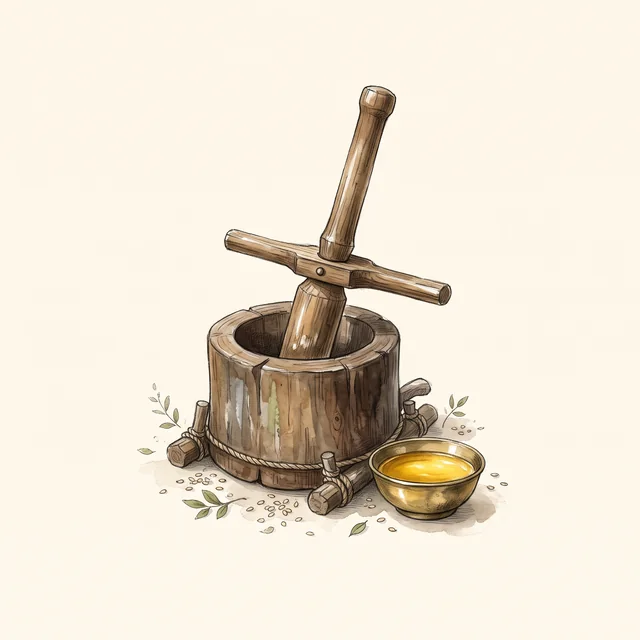
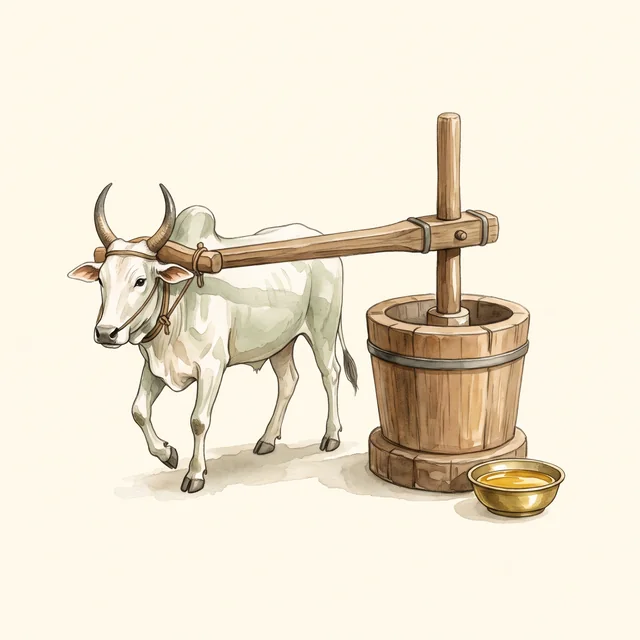
Fix shop-by-category navigation and refresh chekku artwork

Changed region(s): [[0.0938, 0.125, 0.9062, 0.8438]]

diff --git a/src/components/Storefront.tsx b/src/components/Storefront.tsx
@@ -6,7 +6,6 @@ import { useEffect, useState, useSyncExternalStore } from "react";
 import Link from "next/link";
 import { ArrowDown, ArrowRight, ArrowUpRight, Check, ChevronRight, Heart, Menu, Search, ShoppingBag, X } from "lucide-react";
 import { products, productCategories, type Category, type Product } from "@/content/products";
-import { categoryImages } from "@/content/category-images";
 import { Catalogue } from "./Catalogue";
 import { Editorial, NammalvarStory } from "./Editorial";
 import { StorefrontDialogs, type DialogState } from "./StorefrontDialogs";
@@ -29,6 +28,7 @@ export default function Storefront({ initialCategory = "all" }: { initialCategor
   const [dialog, setDialog] = useState<DialogState>(null);
   const [saved, setSaved] = useState<string[]>([]);
   const [category, setCategory] = useState<Category>(initialCategory);
+  const [navigationId, setNavigationId] = useState(0);
   const isWoodOilsPage = initialCategory === "wood-oils";
   const [menuOpen, setMenuOpen] = useState(false);
   const [announcement, setAnnouncement] = useState("");
@@ -62,7 +62,13 @@ export default function Storefront({ initialCategory = "all" }: { initialCategor
 
   const explore = (product: Product) => setDialog({ type: "product", product });
   const guide = () => { setMenuOpen(false); setDialog({ type: "guide" }); };
-  const goToCollection = (next: Category = "all") => { setCategory(next); setMenuOpen(false); document.getElementById("collection")?.scrollIntoView({ behavior: window.matchMedia("(prefers-reduced-motion: reduce)").matches ? "auto" : "smooth" }); };
+  const goToCollection = (next: Category = "all") => {
+    setCategory(next);
+    setMenuOpen(false);
+    setDialog(null);
+    // Increment even when reselecting the current category.
+    setNavigationId((id) => id + 1);
+  };
   // Move the actual section so reading and keyboard order match its placement.
   const nammalvarStory = <NammalvarStory onGuide={guide} />;
 
@@ -71,7 +77,7 @@ export default function Storefront({ initialCategory = "all" }: { initialCategor
     <header className="site-header">
       <div className="header-inner section-wrap">
         <a href="/" className="brand" aria-label={`${siteName} home`}><BrandWordmark /></a>
-        <nav className="desktop-nav" aria-label="Main navigation"><a href="#collection" className="nav-active" onClick={() => setCategory("all")}>Shop products <span className="nav-dot" /></a><a href="#our-way">The Asal way</a><button onClick={guide}>Our categories <ArrowUpRight size={13} /></button><a href="#questions">Good to know</a></nav>
+        <nav className="desktop-nav" aria-label="Main navigation"><a href="#collection" className="nav-active" onClick={(event) => { event.preventDefault(); goToCollection(); }}>Shop products <span className="nav-dot" /></a><a href="#our-way">The Asal way</a><button onClick={guide}>Our categories <ArrowUpRight size={13} /></button><a href="#questions">Good to know</a></nav>
         <div className="header-actions"><button className="icon-button" aria-label="Search products" onClick={() => setDialog({ type: "search" })}><Search size={21} strokeWidth={1.5} /></button><button className="icon-button header-favourites" aria-label={`Saved favourites, ${saved.length} items`} onClick={() => goToCollection("saved")}><Heart size={21} strokeWidth={1.5} />{saved.length > 0 && <span className="header-count">{saved.length}</span>}</button><span className="header-separator" /><Link href="/cart" className="bag-button" aria-label={`Your bag, ${summary.itemCount} ${summary.itemCount === 1 ? "item" : "items"}`}><span className="bag-icon"><ShoppingBag size={21} strokeWidth={1.5} />{summary.itemCount > 0 && <span className="bag-count">{summary.itemCount}</span>}</span><span>Your bag</span></Link><button className="icon-button mobile-menu-toggle" aria-label={menuOpen ? "Close menu" : "Open menu"} aria-expanded={menuOpen} aria-controls="mobile-menu" onClick={() => setMenuOpen(!menuOpen)}>{menuOpen ? <X size={22} /> : <Menu size={22} />}</button></div>
       </div>
       {menuOpen && <nav id="mobile-menu" className="mobile-nav" aria-label="Mobile navigation"><button onClick={() => goToCollection()}>Shop products <ArrowRight size={18} /></button><a href="#our-way" onClick={() => setMenuOpen(false)}>The Asal way</a><button onClick={guide}>Our categories <ArrowUpRight size={18} /></button><a href="#questions" onClick={() => setMenuOpen(false)}>Good to know</a><button onClick={() => goToCollection("saved")}>Saved favourites ({saved.length}) <Heart size={18} /></button></nav>}
@@ -85,31 +91,19 @@ export default function Storefront({ initialCategory = "all" }: { initialCategor
           <div className="hero-copy">
             <p className="hero-tamil" lang="ta">அசல் இயற்கை அங்காடி</p>
             <h1 id="hero-title">{isWoodOilsPage ? <>Wood-pressed<br /><em>oils</em></> : <>Asal Iyarkai<br /><em>Angadi</em></>}</h1>
-            <a href="#collection" className="button button-green" onClick={() => setCategory(initialCategory)}>Shop products <ArrowDown size={17} /></a>
+            <a href="#collection" className="button button-green" onClick={(event) => { event.preventDefault(); goToCollection(initialCategory); }}>Shop products <ArrowDown size={17} /></a>
           </div>
         </section>
       </div>
       {!mobileLayout && nammalvarStory}
-      <section className="category-shelf section-wrap" aria-labelledby="categories-title">
-        <div className="category-shelf-heading"><h2 id="categories-title">Shop by category</h2></div>
-        <nav className="category-shortcuts" aria-label="Shop by category">
-          {productCategories.map(({ id, label, tamilLabel }) => (
-            <button key={id} className="category-shortcut" onClick={() => goToCollection(id)} aria-pressed={category === id} aria-controls="collection">
-              <span className="category-shortcut-photo"><img src={categoryImages[id]} alt="" width="800" height="800" loading="lazy" decoding="async" /></span>
-              <span className="category-shortcut-caption"><strong>{label}</strong><span lang="ta">{tamilLabel}</span></span>
-            </button>
-          ))}
-        </nav>
-        <p className="category-scroll-hint">Scroll to browse <ArrowRight size={13} aria-hidden="true" /></p>
-      </section>
       <KolamDivider className="collection-divider" />
-      <Catalogue saved={saved} onSave={toggleSaved} onExplore={explore} onGuide={guide} category={category} onCategory={setCategory} />
+      <Catalogue saved={saved} onSave={toggleSaved} onExplore={explore} category={category} onCategory={goToCollection} navigationId={navigationId} />
       <Editorial />
       {mobileLayout && nammalvarStory}
     </main>
     <footer className="site-footer"><div className="footer-inner section-wrap"><div className="footer-brand"><a href="/" className="brand footer-brand-mark" aria-label={`${siteName} home`}><BrandWordmark /></a><p>{siteName}</p></div><div className="footer-links"><h3>Categories</h3>{productCategories.map(({ id, label }) => id === "wood-oils" ? <a key={id} href={woodOilsPath}>{label}</a> : <button key={id} onClick={() => goToCollection(id)}>{label}</button>)}</div><div className="footer-links"><h3>Information</h3><a href="#our-way">The Asal way</a><a href="#questions">Good to know</a><button onClick={() => setDialog({ type: "about" })}>About this store</button><button onClick={() => setDialog({ type: "ordering" })}>Ordering & delivery</button><a href="/credits">Image credits</a></div><div className="footer-signoff"><Kolam /></div></div><div className="footer-bottom section-wrap"><span>© 2026 {siteName}</span><span className="preview-tag"><span />Store preview</span><span className="footer-credit">Powered by <strong>Adplix Media</strong><img src="/adplix.svg" alt="" width="18" height="18" /></span></div></footer>
     <div className="sr-only" aria-live="polite">{announcement}</div>
     {announcement && <button className="save-toast" onClick={() => setAnnouncement("")} aria-label={`${announcement} Dismiss notification`}><Check size={16} /><span>{announcement}</span><X size={14} /></button>}
-    {dialog && <StorefrontDialogs key={dialog.type === "product" ? dialog.product.id : dialog.type} dialog={dialog} onClose={() => setDialog(null)} onExplore={explore} saved={saved} onSave={toggleSaved} />}
+    {dialog && <StorefrontDialogs key={dialog.type === "product" ? dialog.product.id : dialog.type} dialog={dialog} onClose={() => setDialog(null)} onExplore={explore} saved={saved} onSave={toggleSaved} category={category} onCategory={goToCollection} />}
   </>;
 }

diff --git a/src/components/Catalogue.tsx b/src/components/Catalogue.tsx
@@ -1,30 +1,31 @@
 "use client";
 
-import { useRef, useState } from "react";
-import { ArrowRight, ArrowUpRight, ChevronDown, Grid2X2, Heart, LayoutList, Search, SlidersHorizontal, Sprout, X } from "lucide-react";
-import { products, productCategories, categoryPackSizes, catalogueMaxPrice, catalogueMinPrice, selectProducts, groupProducts, formatPrice, type Category, type Product, type Sort } from "@/content/products";
+import { useEffect, useRef, useState } from "react";
+import { ArrowRight, ChevronDown, Grid2X2, Heart, LayoutList, Search, SlidersHorizontal, Sprout, X } from "lucide-react";
+import { products, categoryPackSizes, catalogueMaxPrice, catalogueMinPrice, selectProducts, groupProducts, formatPrice, type Category, type Product, type Sort } from "@/content/products";
 import { ProductCard } from "./ProductCard";
 import { HeritageIllustration } from "./HeritageIllustration";
+import { CategorySelector } from "./CategorySelector";
 
 const categories: { id: Category; label: string }[] = [
   { id: "all", label: "All products" },
-  ...productCategories,
   { id: "saved", label: "Saved favourites" },
 ];
 
-export function Catalogue({ saved, onSave, onExplore, onGuide, category, onCategory }: {
+export function Catalogue({ saved, onSave, onExplore, category, onCategory, navigationId }: {
   saved: string[];
   onSave: (id: string) => void;
   onExplore: (product: Product) => void;
-  onGuide: () => void;
   category: Category;
   onCategory: (category: Category) => void;
+  navigationId: number;
 }) {
   const [sort, setSort] = useState<Sort>("featured");
   const [filtersOpen, setFiltersOpen] = useState(false);
   const [maxPrice, setMaxPrice] = useState(catalogueMaxPrice);
   const [query, setQuery] = useState("");
   const [view, setView] = useState<"grid" | "list">("grid");
+  const [readyNavigation, setReadyNavigation] = useState(0);
   const filterToggleRef = useRef<HTMLButtonElement>(null);
   const selected = selectProducts(products, { category, sort, saved, maxPrice, query });
   const groups = groupProducts(selected);
@@ -32,13 +33,34 @@ export function Catalogue({ saved, onSave, onExplore, onGuide, category, onCateg
   // Closing unmounts the panel, so return focus to the control that owns aria-expanded.
   const closeFilters = () => { setFiltersOpen(false); filterToggleRef.current?.focus(); };
 
+  // An explicit category choice must not inherit a search/price filter that hides it.
+  // A separate commit ensures the destination exists before moving focus or scrolling.
+  useEffect(() => {
+    if (!navigationId) return;
+    setQuery("");
+    setMaxPrice(catalogueMaxPrice);
+    setFiltersOpen(false);
+    setReadyNavigation(navigationId);
+  }, [navigationId]);
+
+  useEffect(() => {
+    if (!readyNavigation || readyNavigation !== navigationId) return;
+    const frame = requestAnimationFrame(() => {
+      const targetId = category === "all" || category === "saved" ? "collection" : `category-${category}`;
+      const target = document.getElementById(targetId);
+      target?.focus({ preventScroll: true });
+      target?.scrollIntoView({ behavior: window.matchMedia("(prefers-reduced-motion: reduce)").matches ? "auto" : "smooth", block: "start" });
+    });
+    return () => cancelAnimationFrame(frame);
+  }, [category, navigationId, readyNavigation]);
+
   return (
-    <section className="collection section-wrap" id="collection" aria-labelledby="collection-title">
+    <section className="collection section-wrap" id="collection" tabIndex={-1} aria-labelledby="collection-title">
       <div className="collection-heading">
-        <div><h2 id="collection-title">Our products</h2></div>
-        <button className="text-link guide-link" onClick={onGuide}>Browse by category <ArrowUpRight size={19} /></button>
+        <h2 id="collection-title">Shop by category</h2>
       </div>
-      <div className="collection-tabs" aria-label="Product categories">
+      <CategorySelector category={category} onCategory={onCategory} />
+      <div className="collection-tabs" aria-label="Collection views">
         {categories.map(({ id, label }) => (
           <button key={id} className={category === id ? "active" : ""} aria-pressed={category === id} onClick={() => onCategory(id)}>
             {id === "saved" && <Heart size={15} />}{label}
@@ -76,7 +98,7 @@ export function Catalogue({ saved, onSave, onExplore, onGuide, category, onCateg
         </div>
       </div>}
       {selected.length ? <div className="category-sections">
-        {groups.map((group) => <section className={`category-section category-section-${group.id}`} key={group.id} aria-labelledby={`category-${group.id}-title`}>
+        {groups.map((group) => <section className={`category-section category-section-${group.id}`} key={group.id} id={`category-${group.id}`} tabIndex={-1} aria-labelledby={`category-${group.id}-title`}>
           {group.id === "wood-oils" && <HeritageIllustration subject="chekku" />}
           {group.id === "ghee" && <HeritageIllustration subject="bilona" />}
           {group.id === "milk" && <HeritageIllustration subject="cattle" />}

diff --git a/src/components/StorefrontDialogs.tsx b/src/components/StorefrontDialogs.tsx
@@ -5,11 +5,12 @@ import { BrandWordmark } from "./BrandWordmark";
 import Link from "next/link";
 import { useState } from "react";
 import { ArrowRight, ArrowUpRight, Heart, Leaf, Search, ShoppingBag } from "lucide-react";
-import { canAddToBag, categoryLabel, formatPrice, getProductVariant, productCategories, productPackSizes, productVariantsFor, products, quantityLabel, selectProducts, type Product, type ProductCategory } from "@/content/products";
+import { canAddToBag, categoryLabel, formatPrice, getProductVariant, productPackSizes, productVariantsFor, products, quantityLabel, selectProducts, type Category, type Product, type ProductCategory } from "@/content/products";
 import { Modal } from "./Modal";
 import { useCart } from "./CartProvider";
 import { productPath } from "@/lib/product-pages";
 import { ProductImage } from "./ProductImage";
+import { CategorySelector } from "./CategorySelector";
 
 export type DialogState = { type: "search" | "guide" | "ordering" | "about" } | { type: "product"; product: Product } | null;
 
@@ -23,14 +24,10 @@ function ProductResults({ items, onExplore }: { items: Product[]; onExplore: (pr
   </div>;
 }
 
-function CatalogueGuide({ onExplore }: { onExplore: (product: Product) => void }) {
-  const [category, setCategory] = useState<ProductCategory>("oils");
+function CatalogueGuide({ category, onCategory }: { category: Category; onCategory: (category: ProductCategory) => void }) {
   return <>
     <h2>Shop by category</h2>
-    <div className="guide-options">
-      {productCategories.map(({ id, label }) => <button key={id} className={category === id ? "selected" : ""} aria-pressed={category === id} onClick={() => setCategory(id)}>{label}</button>)}
-    </div>
-    <ProductResults items={selectProducts(products, { category })} onExplore={onExplore} />
+    <CategorySelector category={category} onCategory={onCategory} dialog />
   </>;
 }
 
@@ -46,12 +43,14 @@ function SearchContent({ onExplore }: { onExplore: (product: Product) => void })
   </>;
 }
 
-export function StorefrontDialogs({ dialog, onClose, onExplore, saved, onSave }: {
+export function StorefrontDialogs({ dialog, onClose, onExplore, saved, onSave, category, onCategory }: {
   dialog: NonNullable<DialogState>;
   onClose: () => void;
   onExplore: (product: Product) => void;
   saved: string[];
   onSave: (id: string) => void;
+  category: Category;
+  onCategory: (category: ProductCategory) => void;
 }) {
   const { addItem, ready } = useCart();
   const [selectedVariantId, setSelectedVariantId] = useState<string>();
@@ -81,7 +80,7 @@ export function StorefrontDialogs({ dialog, onClose, onExplore, saved, onSave }:
   }
   return <Modal title={dialog.type === "search" ? "Search products" : dialog.type === "guide" ? "Catalogue guide" : dialog.type === "about" ? "About Asal" : "Online ordering"} onClose={onClose} className={dialog.type === "guide" ? "guide-modal" : ""}>
     {dialog.type === "search" && <SearchContent onExplore={onExplore} />}
-    {dialog.type === "guide" && <CatalogueGuide onExplore={onExplore} />}
+    {dialog.type === "guide" && <CatalogueGuide category={category} onCategory={onCategory} />}
     {dialog.type === "ordering" && <div className="simple-dialog"><span className="modal-symbol"><ShoppingBag size={28} strokeWidth={1.4} /></span><h2>Ordering &amp; delivery</h2><p>Add products with a listed quantity to your bag and review your delivery details at checkout.</p><p className="muted">Real payments and delivery orders are not yet available. Sandbox checkout may be enabled for testing. Delivery availability, charges and tax settings are still to be confirmed.</p><Link href="/cart" className="button button-green" onClick={onClose}>Go to your bag <ArrowRight size={18} /></Link></div>}
     {dialog.type === "about" && <div className="simple-dialog"><span className="brand modal-brand"><BrandWordmark /></span><h2>About Asal</h2><p>Asal Iyarkai Angadi offers oils, ghee, spices, dairy products and traditional grains.</p><p className="muted">Browse the catalogue and prepare your bag. Online ordering is not yet available.</p><button className="button button-green" onClick={onClose}>Back to the collection <ArrowRight size={18} /></button></div>}
   </Modal>;

diff --git a/src/app/heritage.css b/src/app/heritage.css
@@ -53,10 +53,7 @@
   .hero-tamil { color: #756647; font-size: .85rem; margin-top: 0; }
   .hero h1 { font-size: clamp(42px, 4.1vw, 60px); line-height: 1.15; letter-spacing: -1.9px; margin-block: 13px 20px; }
   .hero h1 em { color: #64744a; }
-  .category-shelf { padding-block: 32px 12px; }
-  .category-shelf-heading { display: flex; align-items: baseline; justify-content: space-between; gap: 20px; margin-bottom: 14px; }
-  .category-shelf-heading h2 { font-size: clamp(23px, 2vw, 28px); letter-spacing: -.6px; }
-  .category-shelf-heading p { color: var(--muted); font-size: .8125rem; }
+  .category-picker { margin-bottom: 22px; }
   .category-shortcuts { display: grid; grid-template-columns: repeat(7, minmax(0, 1fr)); gap: 16px; padding: 6px 4px 10px; overflow-x: auto; scroll-snap-type: x proximity; scroll-padding-inline: 4px; scrollbar-width: thin; scrollbar-color: #c6cbbd transparent; }
   .category-shortcut { min-width: 0; padding: 4px 2px 6px; display: flex; flex-direction: column; align-items: center; gap: 10px; border: 0; border-radius: 10px; background: transparent; text-align: center; scroll-snap-align: start; }
   .category-shortcut:hover .category-shortcut-photo { border-color: #8a9b84; transform: translateY(-2px); }
@@ -70,6 +67,9 @@
   .category-shortcuts strong { display: grid; align-items: center; min-height: 2.8em; font-size: .8125rem; font-weight: 600; line-height: 1.4; }
   .category-shortcuts [lang="ta"] { display: block; margin-top: 3px; color: #64705f; font-size: .6875rem; }
   .category-scroll-hint { display: none; align-items: center; gap: 6px; margin-top: 8px; color: var(--muted); font-size: .6875rem; }
+  .guide-modal .category-picker { margin: 24px 0 0; }
+  /* Global scroll-padding already reserves the sticky header height. */
+  .collection:focus, .category-section:focus { outline: none; }
   .collection::before { display: none; }
   .collection-divider { margin-top: 18px; }
   .collection-heading .eyebrow, .faq-intro .eyebrow { color: #776b51; }
@@ -133,6 +133,8 @@
 }
 
 @layer responsive {
+  /* The modal wraps at every size; only the inline picker is a horizontal strip. */
+  .guide-modal .category-shortcuts-dialog { grid-template-columns: repeat(3, minmax(0, 1fr)); grid-auto-flow: row; grid-auto-columns: auto; gap: 20px 12px; overflow: visible; }
   @media (min-width: 1500px) {
     .hero { min-height: 380px; }
     .hero h1 { font-size: 60px; }
@@ -158,9 +160,7 @@
     /* Keep a clear view of the palms above the copy within the same full-card background. */
     .hero-backdrop > img { inset: -60px 0 0; width: 100%; height: calc(100% + 60px); object-position: 54% top; filter: none; }
     .hero-backdrop::after { background: linear-gradient(180deg, #f8f7e80a 0, #f8f7e829 48px, #f8f7e8d9 118px, #f8f7e8e6 220px, #f8f7e8d9 100%); }
-    .category-shelf { padding-block: 26px 8px; }
-    .category-shelf-heading { display: block; margin-bottom: 12px; }
-    .category-shelf-heading p { margin-top: 6px; font-size: .75rem; }
+    .guide-modal .category-shortcuts-dialog { grid-template-columns: repeat(2, minmax(0, 1fr)); }
     .category-shortcuts { grid-auto-columns: 6rem; gap: 8px; }
     .category-shortcut { gap: 8px; }
     .category-shortcut-photo { width: 5rem; border-radius: 10px; }

diff --git a/src/components/CategorySelector.tsx b/src/components/CategorySelector.tsx
@@ -1,0 +1,38 @@
+"use client";
+
+import { ArrowRight } from "lucide-react";
+import { useEffect, useRef } from "react";
+import { categoryImages } from "@/content/category-images";
+import { productCategories, type Category, type ProductCategory } from "@/content/products";
+
+export function CategorySelector({ category, onCategory, dialog = false }: {
+  category: Category;
+  onCategory: (category: ProductCategory) => void;
+  dialog?: boolean;
+}) {
+  const stripRef = useRef<HTMLElement>(null);
+  useEffect(() => {
+    if (dialog) return;
+    const strip = stripRef.current;
+    const selected = strip?.querySelector<HTMLButtonElement>('[aria-pressed="true"]');
+    if (!strip || !selected) return;
+    const bounds = strip.getBoundingClientRect();
+    const button = selected.getBoundingClientRect();
+    // Keep selections made in the modal/footer visible without scrolling the page.
+    if (button.left < bounds.left || button.right > bounds.right) {
+      strip.scrollLeft += button.left - bounds.left - 4;
+    }
+  }, [category, dialog]);
+
+  return <div className="category-picker">
+    <nav ref={stripRef} className={`category-shortcuts${dialog ? " category-shortcuts-dialog" : ""}`} aria-label="Shop by category">
+      {productCategories.map(({ id, label, tamilLabel }) => (
+        <button key={id} type="button" className="category-shortcut" onClick={() => onCategory(id)} aria-pressed={category === id} aria-controls="collection">
+          <span className="category-shortcut-photo"><img src={categoryImages[id]} alt="" width="800" height="800" loading="lazy" decoding="async" /></span>
+          <span className="category-shortcut-caption"><strong>{label}</strong><span lang="ta">{tamilLabel}</span></span>
+        </button>
+      ))}
+    </nav>
+    {!dialog && <p className="category-scroll-hint">Scroll to browse <ArrowRight size={13} aria-hidden="true" /></p>}
+  </div>;
+}

diff --git a/src/app/globals.css b/src/app/globals.css
@@ -231,10 +231,6 @@
   .search-empty { text-align: center; padding: 35px 20px; background: #f5f7f2; }
   .search-empty p { margin: 14px 0; font-size: var(--text-body); color: var(--muted); }
   .guide-modal { width: min(690px, calc(100% - 40px)); }
-  .guide-options { display: flex; flex-wrap: wrap; gap: 9px; margin-top: 25px; }
-  .guide-options > button { display: flex; align-items: center; justify-content: center; gap: 8px; padding: 14px 11px; min-height: 51px; border: 1px solid var(--line); border-radius: 5px; font-size: var(--text-small); flex: 1; }
-  .guide-options > button.selected { background: #eef4e9; border-color: #93ac84; }
-  .guide-options > button.selected > svg:last-child { margin-left: auto; }
   .simple-dialog { text-align: center; padding: 10px; }
   .simple-dialog > p:not(.eyebrow) { font-size: var(--text-body); line-height: 1.9; color: #667763; margin-top: 20px; }
   .simple-dialog > p.muted { font-size: var(--text-small); color: #7d8979; }
@@ -442,8 +438,6 @@
     .search-results strong { font-size: var(--text-body); }
     .search-results small { font-size: var(--text-small); }
     .search-price { font-size: var(--text-body); }
-    .guide-options { flex-direction: column; gap: 8px; }
-    .guide-options > button { justify-content: flex-start; min-height: 48px; font-size: var(--text-small); padding: 12px; }
     .simple-dialog { padding-inline: 0; }
     .simple-dialog > p:not(.eyebrow) { font-size: var(--text-body); }
     .simple-dialog > p.muted { font-size: var(--text-small); }

diff --git a/src/app/imagery.css b/src/app/imagery.css
@@ -50,6 +50,9 @@
     .category-backdrop { grid-area: 1 / 1; position: relative; inset: auto; align-self: start; justify-self: end; width: min(48vw, 240px); margin: 0 -14px 0 0; mix-blend-mode: multiply; }
     .category-backdrop > img { position: relative; inset: auto; width: 100%; height: auto; aspect-ratio: 1; object-fit: contain; object-position: center; filter: blur(.25px) saturate(.9); opacity: .88; mask-image: radial-gradient(ellipse at center, #000 48%, transparent 72%); }
     .category-backdrop::after { content: none; }
+    /* The cow-and-press vignette is wider: place the pack line below its legs. */
+    .category-section-wood-oils .category-heading-copy { min-height: max(176px, min(48vw, 240px)); grid-template-rows: auto auto 1fr; }
+    .category-section-wood-oils .category-pack-sizes { align-self: end; }
     .story-photograph > img { height: auto; }
     .story-copy > .story-context { font-size: .6875rem; }
   }

diff --git a/src/content/products.ts b/src/content/products.ts
@@ -5,7 +5,7 @@ export const productCategories = [
   { id: "masala", label: "Masala & Spices", tamilLabel: "மசாலா வகைகள்" },
   { id: "milk", label: "Milk Products", tamilLabel: "பால் பொருட்கள்" },
   { id: "rice", label: "Traditional Rice", tamilLabel: "பாரம்பரிய அரிசி வகைகள்" },
-  { id: "grain", label: "Ragi & Bajra", tamilLabel: "கேழ்வரகு & கம்பு" },
+  { id: "grain", label: "Millets", tamilLabel: "சிறுதானியங்கள்" },
 ] as const;
 
 export type ProductCategory = typeof productCategories[number]["id"];

diff --git a/docs/design-assets.md b/docs/design-assets.md
@@ -262,7 +262,7 @@ are 640×640 WebP, quality 84/effort 6, each under 40KB. No crop or distortion.
 | Output in `public/images/heritage/` | Original Gemini filename | Subject |
 | --- | --- | --- |
 | `bilona-mobile.webp` | `Gemini_Generated_Image_3sxen73sxen73sxe.png` | Terracotta churn, wooden spindle and brass ghee bowl |
-| `chekku-mobile.webp` | `Gemini_Generated_Image_s9j6sqs9j6sqs9j6.png` | Compact wooden press, oil bowl and sesame |
+| `chekku-mobile.webp` | `Gemini_Generated_Image_yf496ayf496ayf49.png` (November 10 replacement) | White Tamil bullock harnessed to a wooden chekku, with brass oil bowl |
 | `cattle-mobile.webp` | `Gemini_Generated_Image_c6rmdfc6rmdfc6rm.png` | White zebu cow with a light-brown calf |
 
 Shared prompt direction: square isolated watercolor-and-ink editorial vignette,
@@ -270,6 +270,17 @@ warm ivory `#fffdf8` paper, central subject occupying 65–70%, generous blank e
 muted olive, terracotta and gold, soft ground shadow, recognizable at 140–150px.
 No room, landscape, frame, lettering, logo or UI. These are decorative
 illustrations, not evidence of the store's facilities, animals or production.
+
+On November 10 the owner requested an animal-driven chekku instead of the
+isolated mobile press. Generated a new square watercolor through Gemini in
+the owner's Chrome: complete white native Tamil bullock, horns and four legs,
+visibly joined by a wooden beam to a traditional cylindrical marachekku and
+upright pestle; brass sesame-oil bowl; muted sage, wood and cream, generous
+ivory margins, no people, scenery or lettering. Source is 2048×2048, resized
+without cropping to the same 640×640 WebP budget. The desktop courtyard scene
+and the shared soft background treatment are unchanged. The mobile wood-oil
+heading reserves space for the full vignette, keeping pack sizes below the
+animal and press instead of crossing them.
 
 ### Nammalvar photograph — CC BY-SA 3.0
 
